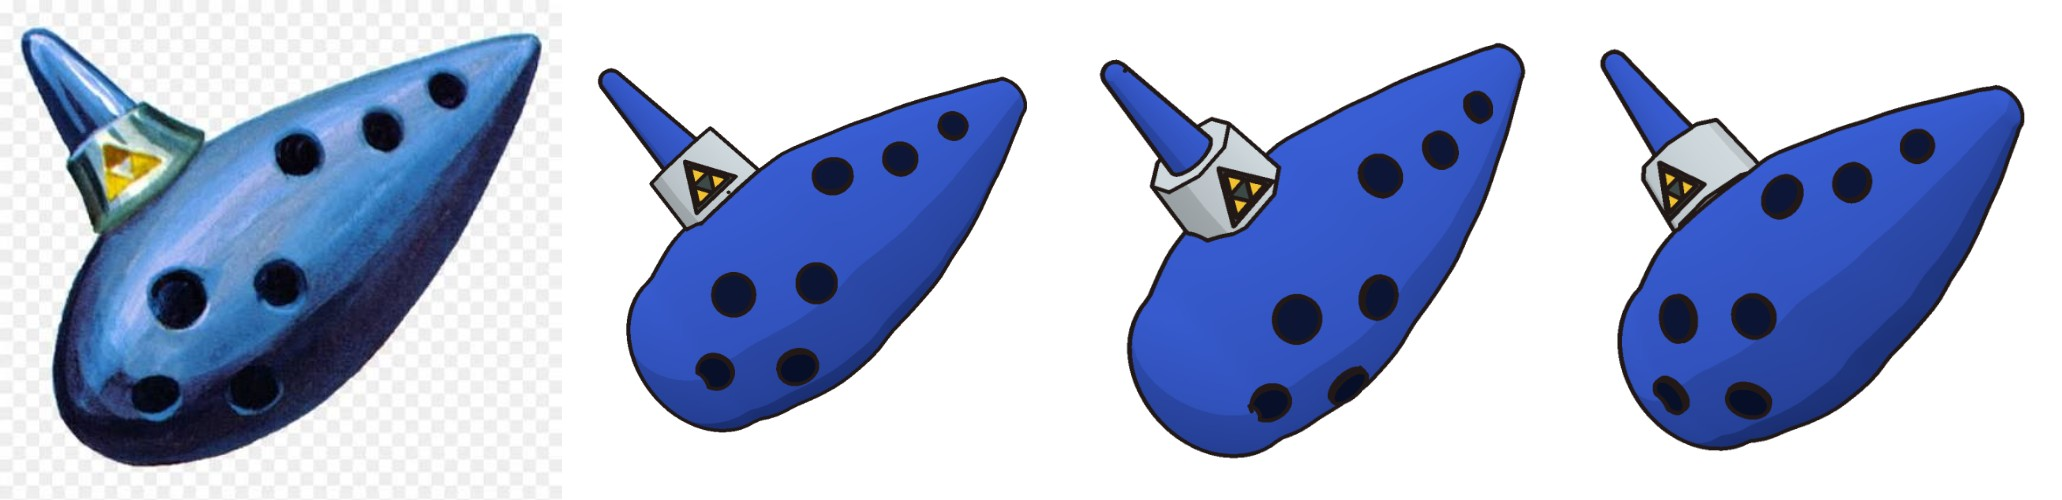
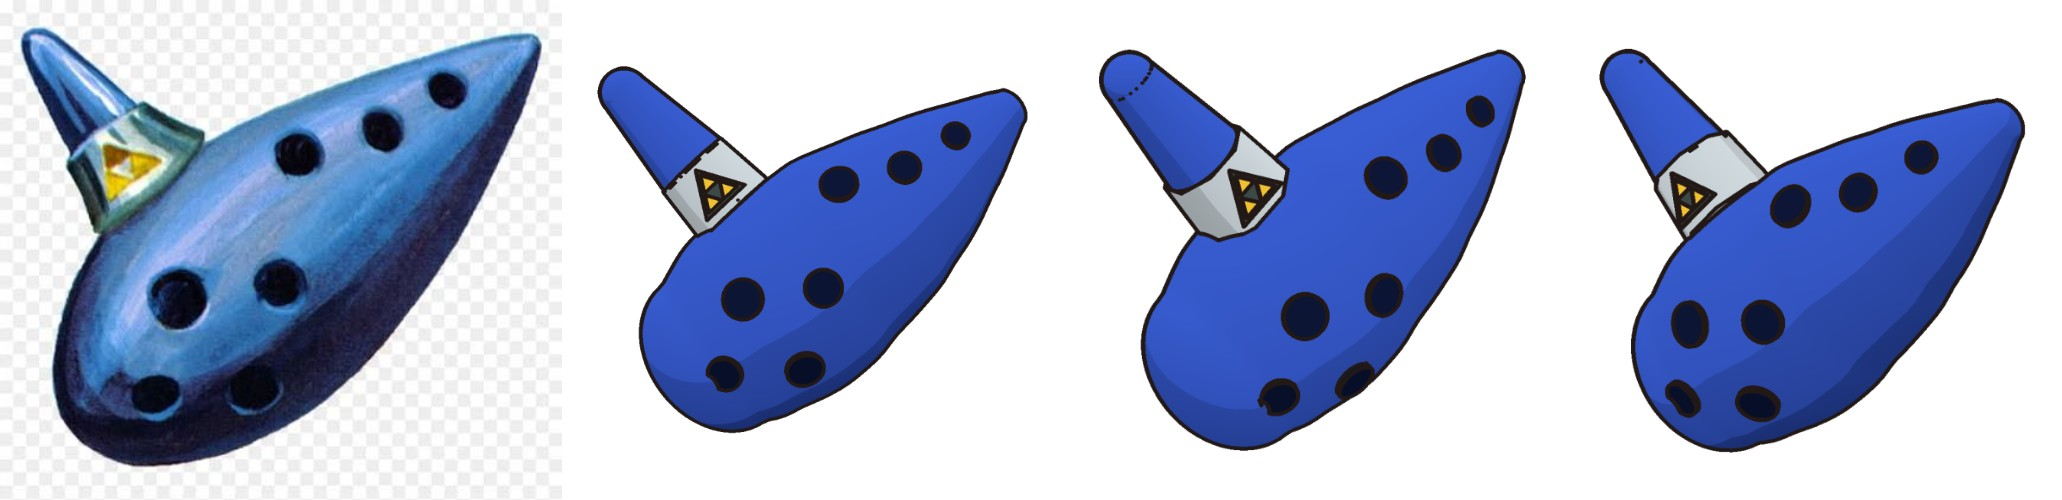
Ocarina v2: mouthpiece as thick as the collar (Producer note)
Claude-Session: https://claude.ai/code/session_01Bi3PXNKGSfsqTH99bT8fk5

diff --git a/secondquest/tools/props3d/scene.ts b/secondquest/tools/props3d/scene.ts
@@ -289,9 +289,10 @@ const ocarina = () => {
   collar.rotation.y = Math.PI / SEG; collar.position.y = CH / 2 + 2;
   collar.userData.part = part++; ids.push(collar); mg.add(collar);
   const SL = 40;
-  const spout = new THREE.Mesh(new THREE.CylinderGeometry(4.2, 8.6, SL, 36), toon(BLUE));
+  const SR0 = CR1 * Math.cos(Math.PI / SEG), SR1 = SR0 * 0.62;   // mouthpiece as thick as the collar where it leaves it (Producer note)
+  const spout = new THREE.Mesh(new THREE.CylinderGeometry(SR1, SR0, SL, 48), toon(BLUE));
   spout.position.y = CH + 2 + SL / 2 - 1; spout.userData.part = part++; ids.push(spout); mg.add(spout);
-  const tip = new THREE.Mesh(new THREE.SphereGeometry(4.2, 20, 14), toon(BLUE));
+  const tip = new THREE.Mesh(new THREE.SphereGeometry(SR1, 32, 16, 0, Math.PI * 2, 0, Math.PI / 2), toon(BLUE));
   tip.position.y = CH + 2 + SL - 1; tip.userData.part = spout.userData.part; ids.push(tip); mg.add(tip);
   // Triforce on a dark inset, on the collar's front facet
   const rMid = (CR0 + CR1) / 2, apo = rMid * Math.cos(Math.PI / SEG), lean = Math.atan((CR0 - CR1) / CH);
